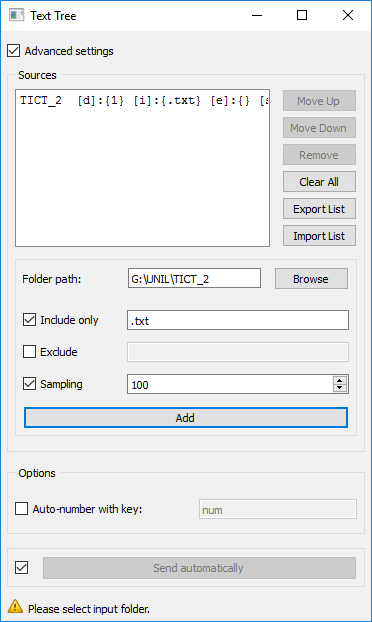
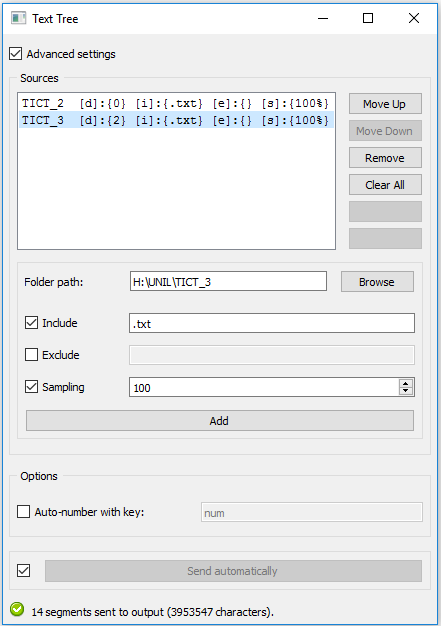
Interface cleaning
Code nettoyé et complèté(côté interface)
Code modifiée ( bouton export et import)
Documentation adaptée (virgule, include, exclude...)
Nouvelle image pour advanced setting

Changed region(s): [[0.0, 0.0, 1.0, 1.0], [0.4435, 0.7942, 0.5914, 0.8248]]

diff --git a/orangecontrib/textable_prototypes/widgets/TextTree.py b/orangecontrib/textable_prototypes/widgets/TextTree.py
@@ -205,8 +205,10 @@ class OWTextableTextTree(OWTextableBaseWidget):
                 u"\nIn the output segmentation, the content of each\n"
                 u"folder appears in the same position as in the list.\n"
                 u"\nColumn 1 shows the folder's name.\n"
-                u"Column 2 shows the folder's annotation (if any).\n"
-                u"Column 3 shows the folder's encoding."
+                u"Column 2 shows the folder's depth.\n"
+                u"Column 3 shows the inclusions filter.\n"
+                u"Column 4 shows the exclusions filter.\n"
+                u"Column 5 shows the folder's level of sampling."
             ),
         )
         font = QFont()
@@ -257,7 +259,7 @@ class OWTextableTextTree(OWTextableBaseWidget):
         self.exportButton = gui.button(
             widget=folderBoxCol2,
             master=self,
-            label=u'Export List',
+            label=u'',
             callback=self.exportList,
             disabled = True,
             tooltip=(
@@ -268,7 +270,7 @@ class OWTextableTextTree(OWTextableBaseWidget):
         self.importButton = gui.button(
             widget=folderBoxCol2,
             master=self,
-            label=u'Import List',
+            label=u'',
             callback=self.importList,
             disabled = True,
             tooltip=(
@@ -326,7 +328,7 @@ class OWTextableTextTree(OWTextableBaseWidget):
         gui.separator(widget=addfolderBox, width=10)
 
 
-        # Filter box to input include only
+        # Filter box to input include
         gui.separator(widget=addfolderBox, width=3)
         includeBoxLine1 = gui.widgetBox(
             widget=addfolderBox,
@@ -334,7 +336,7 @@ class OWTextableTextTree(OWTextableBaseWidget):
             orientation='horizontal',
         )
 
-        # Include only box
+        # Include box
         gui.checkBox(
             widget=includeBoxLine1,
             master=self,
@@ -361,14 +363,14 @@ class OWTextableTextTree(OWTextableBaseWidget):
             ),
         )
 
-        # Filter box to exclude only
+        # Filter box to exclude
         gui.separator(widget=addfolderBox, width=3)
         excludeBoxLine1 = gui.widgetBox(
             widget=addfolderBox,
             box=False,
             orientation='horizontal',
         )
-        # Exclude only box
+        # Exclude box
         gui.checkBox(
             widget=excludeBoxLine1,
             master=self,
